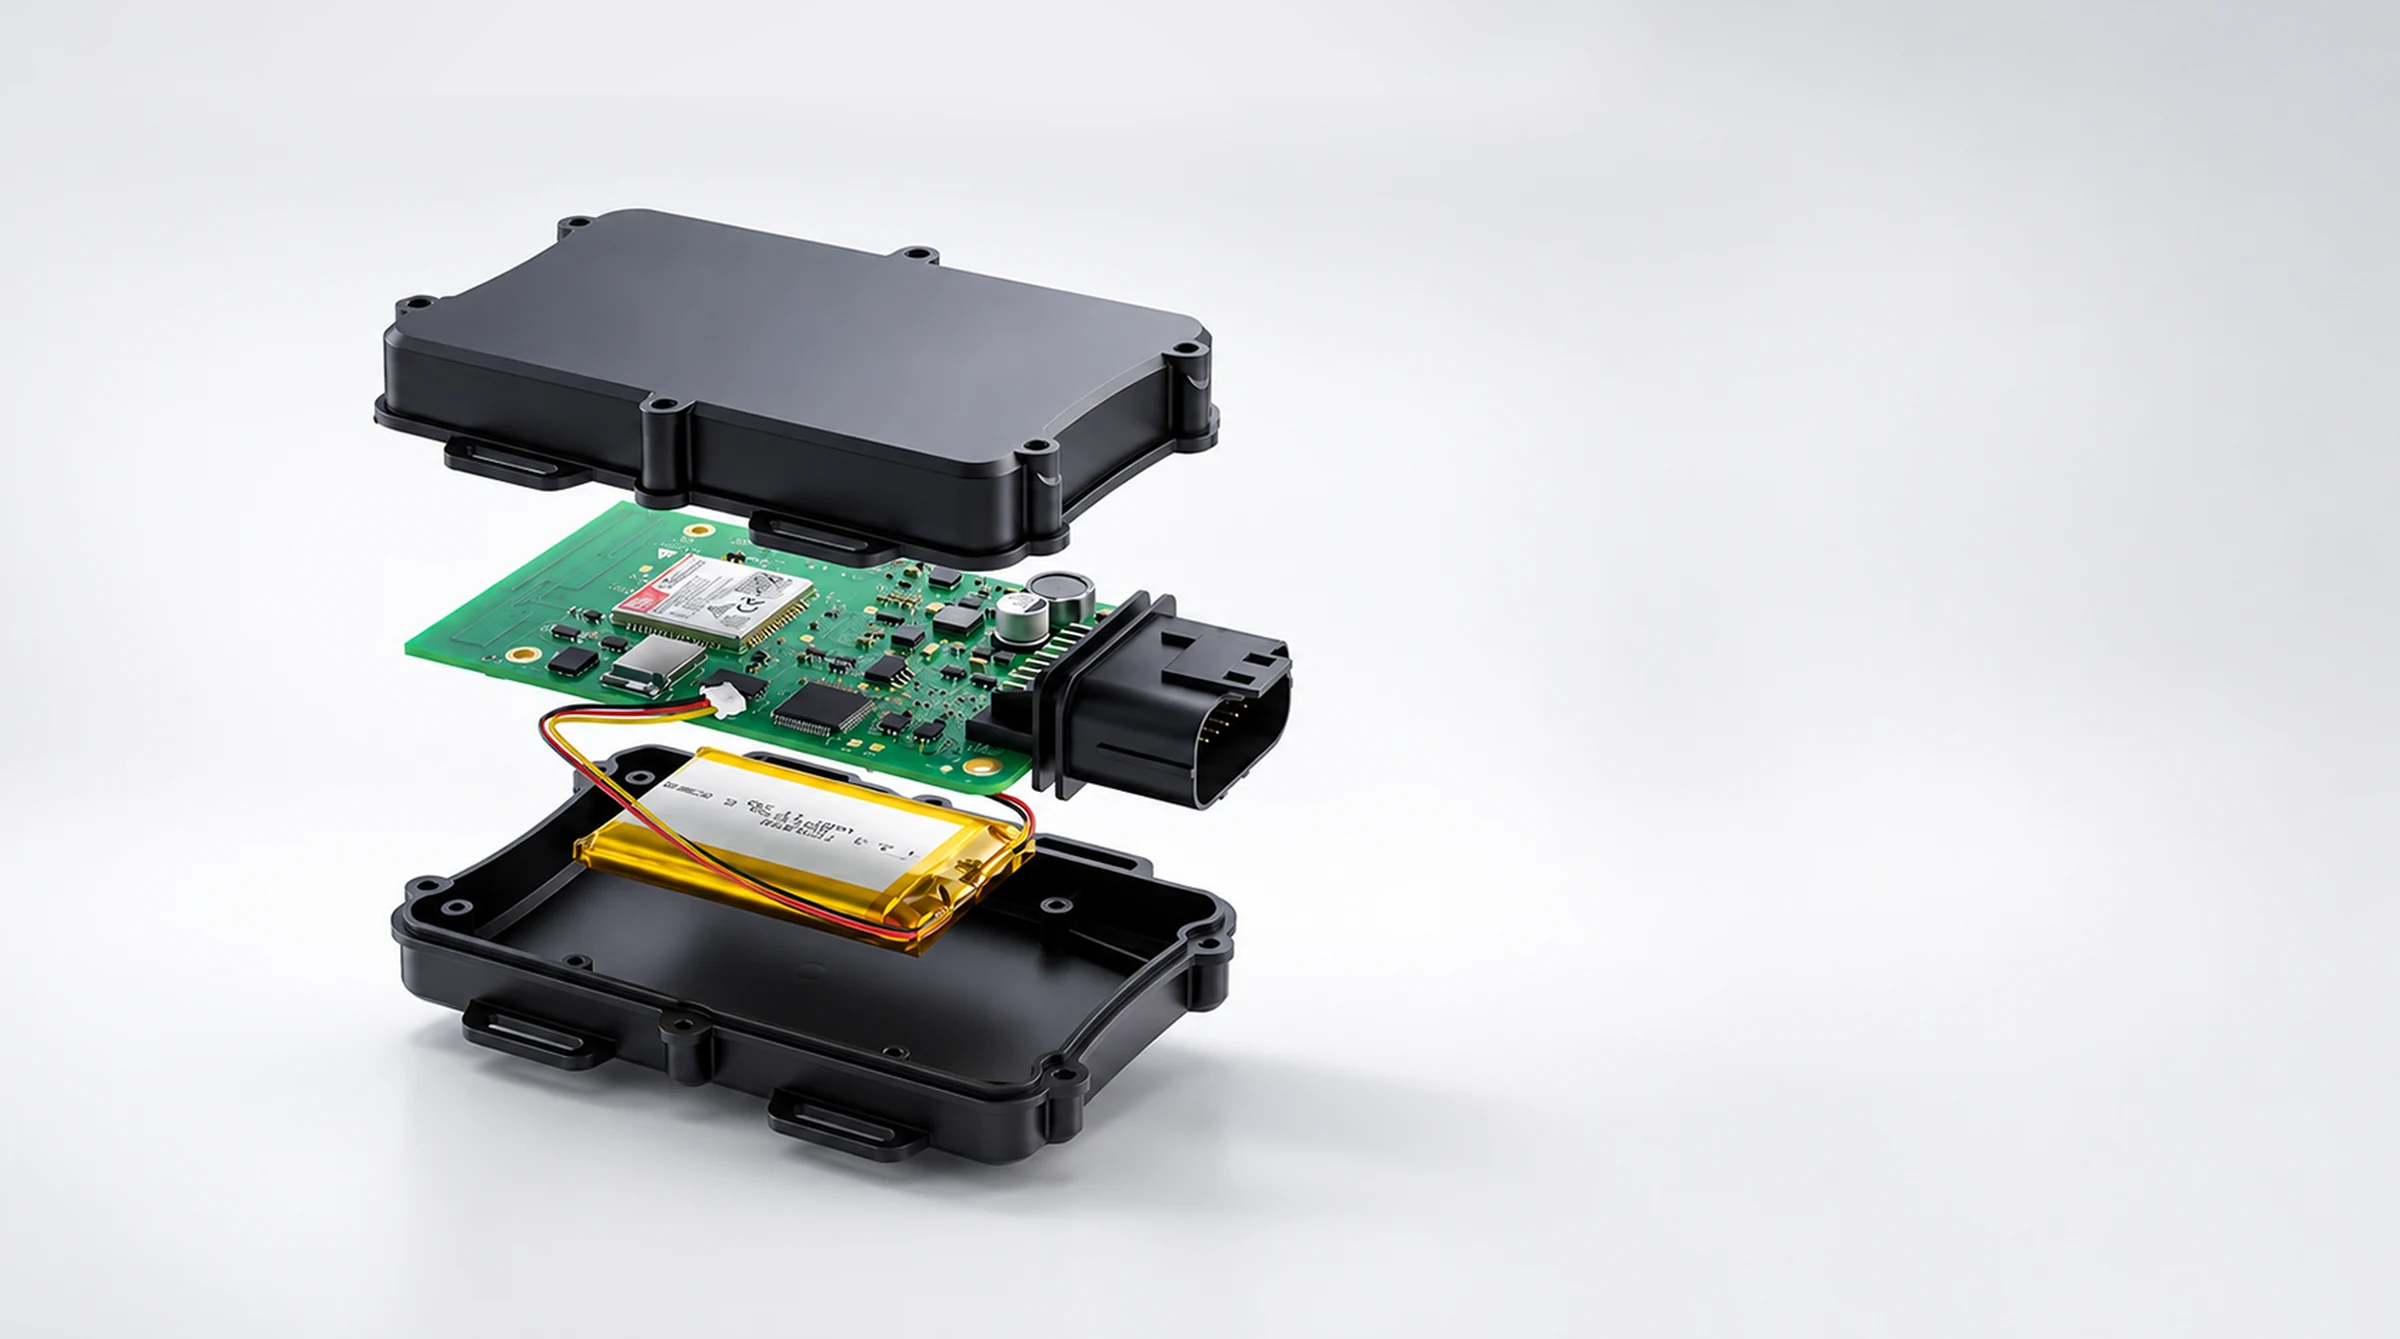
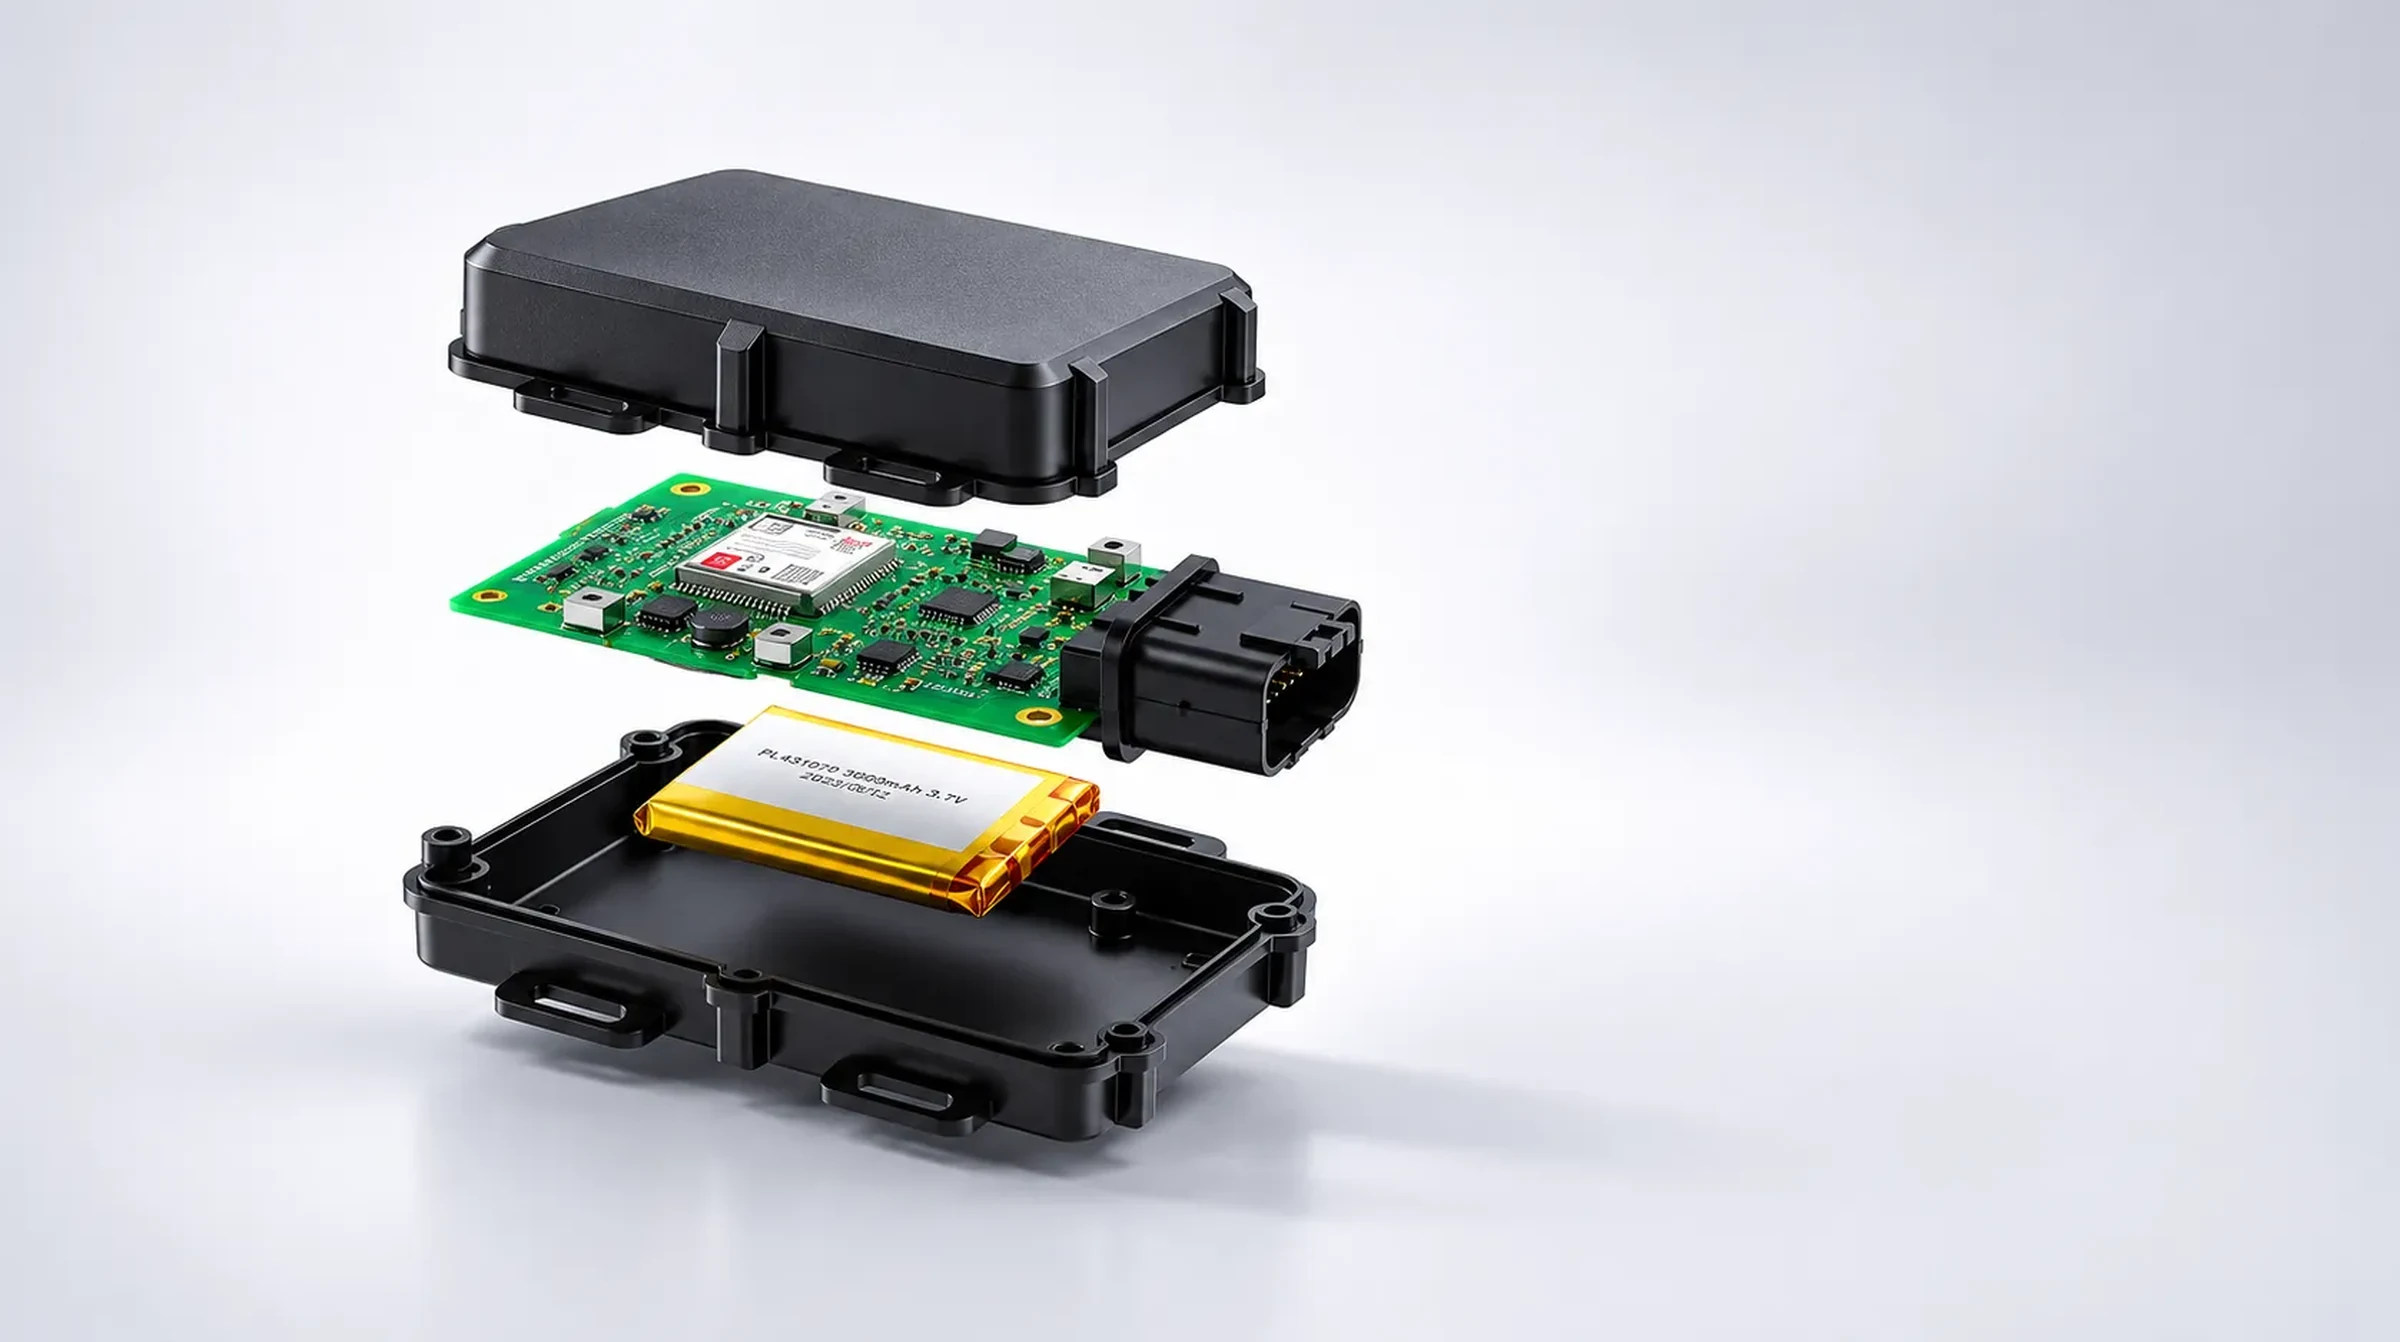
Numbers: new exploded Explorer image, stats clear of connector
Claude-Session: https://claude.ai/code/session_019hg5JKm3Ajc1VUuZ1vD315

Changed region(s): [[0.1562, 0.1225, 0.5938, 0.9186]]

diff --git a/index.html b/index.html
@@ -148,14 +148,14 @@ p,h1,h2,h3,ul{margin:0}
 .stats-band::after{content:"";grid-column:1;grid-row:1;z-index:1;pointer-events:none;background:linear-gradient(90deg,rgba(238,240,239,0) 0%,rgba(238,240,239,.04) 18%,rgba(238,240,239,.14) 34%,rgba(238,240,239,.3) 50%,rgba(238,240,239,.52) 66%,rgba(238,240,239,.76) 82%,rgba(238,240,239,.92) 93%,#EEF0EF 100%)}
 .stats-band:not(.has-media)::after{display:none}
 @media (min-width:861px){
-  .stats-band{background:#E6E7EB}
+  .stats-band{background:#E1E3EA}
   .stats-band > .default-pic,.stats-band > .photo,.stats-band::after{grid-column:1 / -1}
   .stats-band .photo{object-position:0% 50%}
-  .stats-band::after{background:linear-gradient(90deg,rgba(232,233,237,0) 0%,rgba(232,233,237,0) 52%,rgba(232,233,237,.35) 70%,rgba(232,233,237,.45) 100%)}
+  .stats-band .stats-col{padding-left:clamp(56px,11.5vw,200px)}
+  .stats-band::after{background:linear-gradient(90deg,rgba(226,228,236,0) 0%,rgba(226,228,236,0) 52%,rgba(226,228,236,.35) 70%,rgba(226,228,236,.45) 100%)}
 }
 
 @media (min-width:861px) and (max-width:1199px){
-  .stats-band .stats-col{padding-left:clamp(48px,7vw,84px)}
   .stats-band::after{background:linear-gradient(90deg,rgba(238,241,246,0) 0%,rgba(238,241,246,0) 46%,rgba(238,241,246,.4) 62%,rgba(238,241,246,.62) 80%,rgba(238,241,246,.7) 100%)}
 }
 .stats-col{grid-column:2;grid-row:1;position:relative;z-index:2;padding:clamp(56px,7vw,112px) clamp(24px,4.4vw,64px) clamp(56px,7vw,112px) clamp(8px,2vw,32px)}
@@ -174,10 +174,10 @@ p,h1,h2,h3,ul{margin:0}
 .stats-band.fx .stat.in .stat-l{opacity:1;transform:none}
 .stats-band.fx .stat.done .stat-src{visibility:visible}
 @media (max-width:860px){
-  .stats-band{grid-template-columns:1fr;background:#E9E9ED}
+  .stats-band{grid-template-columns:1fr;background:#E2E4EB}
   .stats-band .photo{object-position:50% 50%}
   .stats-band > .default-pic,.stats-band > .photo,.stats-band::after{grid-column:1;grid-row:1;height:auto;aspect-ratio:4/3;min-height:0}
-  .stats-band::after{background:linear-gradient(180deg,rgba(233,233,237,0) 0%,rgba(233,233,237,0) 72%,rgba(233,233,237,.6) 90%,#E9E9ED 100%)}
+  .stats-band::after{background:linear-gradient(180deg,rgba(226,228,235,0) 0%,rgba(226,228,235,0) 72%,rgba(226,228,235,.6) 90%,#E2E4EB 100%)}
   .stats-band:not(.has-media) .stats-col{padding-top:48px}
   .stats-col{grid-column:1;grid-row:2;padding:8px 24px 64px}
 }
@@ -777,7 +777,7 @@ p,h1,h2,h3,ul{margin:0}
   </script>
 
   <section id="numbers" class="stats-band has-media" data-sec="Numbers" data-sid="numbers" data-slot="numbers" data-slot-l="Numbers image" data-default-media="images/numbers.webp" aria-label="Canopy in numbers">
-    <picture class="default-pic"><source media="(max-width:860px)" srcset="images/numbers-mobile.webp?v=3"><img class="photo" src="images/numbers.webp?v=9" alt="An exploded view of the Explorer device: lid, circuit board with connector and cellular module, backup battery and base" width="2400" height="1339" loading="lazy" decoding="async"></picture>
+    <picture class="default-pic"><source media="(max-width:860px)" srcset="images/numbers-mobile.webp?v=4"><img class="photo" src="images/numbers.webp?v=10" alt="An exploded view of the Explorer device: lid, circuit board with connector and cellular module, backup battery and base" width="2400" height="1342" loading="lazy" decoding="async"></picture>
     <div class="stats-col">
       <dl class="stats-list">
         <div class="stat"><dt class="stat-l" data-k="num.1.l" data-l="Number 1 label">Vehicles connected</dt><dd class="stat-v"><span class="stat-src" data-k="num.1.v" data-l="Number 1">[X]+</span></dd></div>
